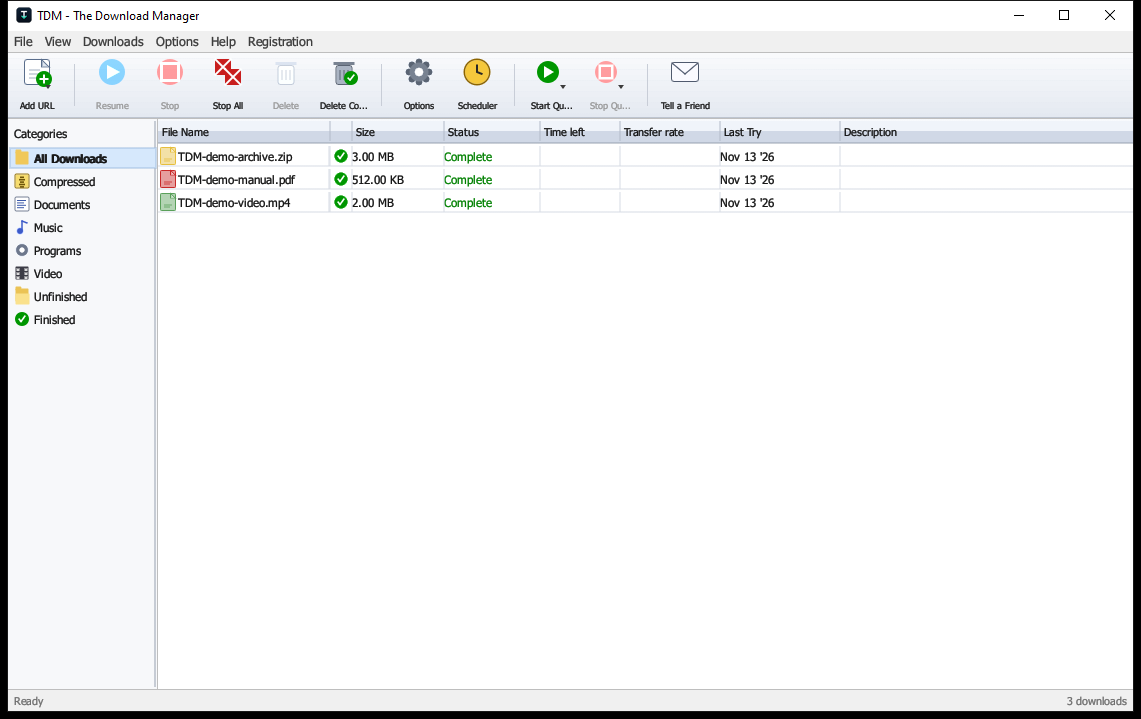
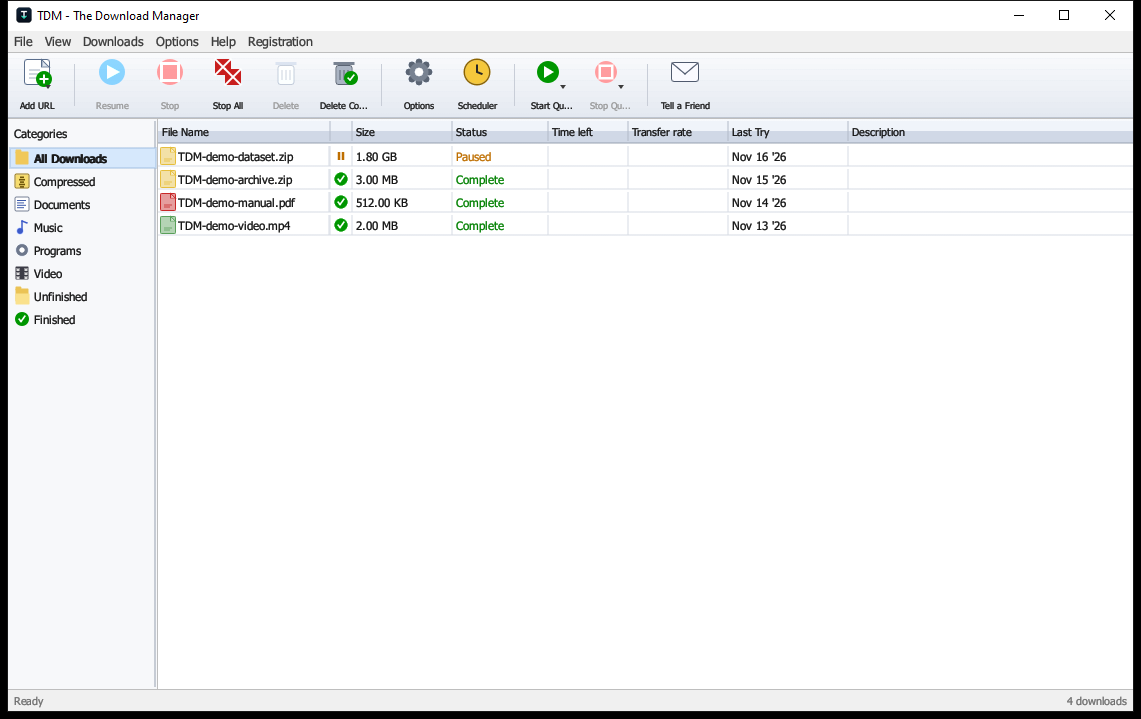
ReadMe Update

diff --git a/README.md b/README.md
@@ -31,7 +31,7 @@
 <br>
 
 <p align="center">
-  <img src="docs/screenshot-main.png" alt="TDM main window: a download list with completed transfers, category panel and toolbar" width="100%">
+  <img src="docs/screenshot-main.png" alt="TDM main window: download list with paused and completed transfers, category panel and toolbar" width="100%">
   <br>
   <sub>The main window — segmented transfers, categories, and the per-download list.</sub>
 </p>
@@ -119,7 +119,7 @@ The progress window shows overall speed and each connection's byte range.
 <table>
   <tr>
     <td width="50%" valign="top">
-      <img src="docs/screenshot-main.png" alt="TDM main window with completed downloads" width="100%">
+      <img src="docs/screenshot-main.png" alt="TDM main window with paused and completed downloads" width="100%">
       <br><sub>The download list, category filter and toolbar.</sub>
     </td>
     <td width="50%" valign="top">
@@ -130,7 +130,7 @@ The progress window shows overall speed and each connection's byte range.
   <tr>
     <td colspan="2" valign="top">
       <img src="docs/screenshot-progress.png" alt="TDM Download progress dialog with overall progress and per-connection bars" width="100%">
-      <br><sub>Download progress: overall rainbow bar and live per-connection segments.</sub>
+      <br><sub>Download progress: overall rainbow bar and per-connection segments.</sub>
     </td>
   </tr>
 </table>
